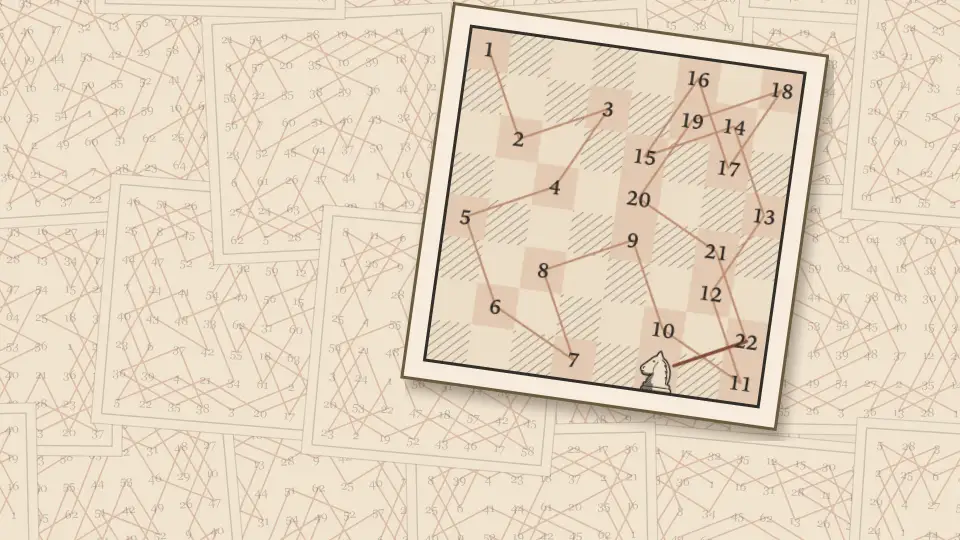
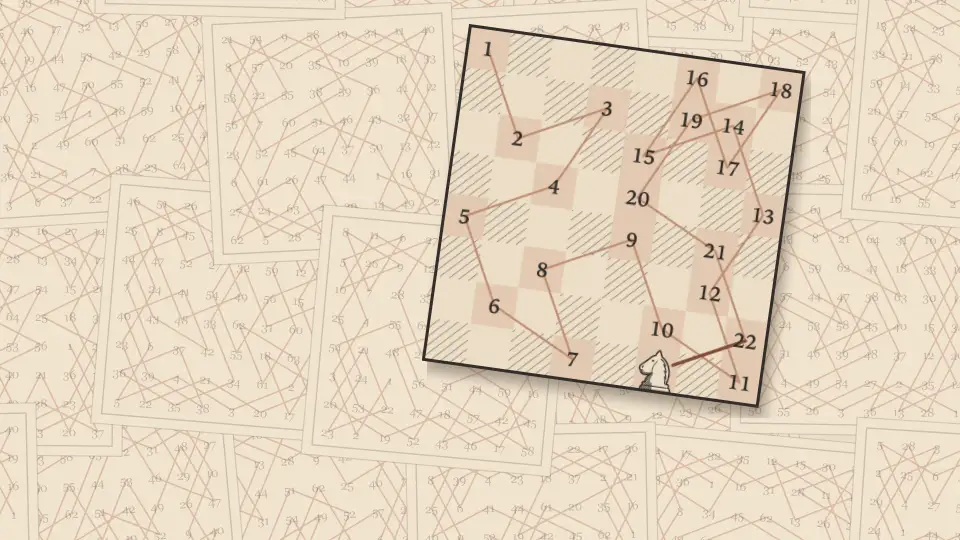
fix(knights-tour): 平台圖的棋盤拿掉白色紙邊，跟對局裡一樣只有墨框（11/3 Zach）
Claude-Session: https://claude.ai/code/session_014xmu4NJqhaE3mUfTMmWSRQ

diff --git a/CLAUDE.md b/CLAUDE.md
@@ -230,7 +230,7 @@ nudge { by, at }          最近一次「催一下」
     **2026-11-02 上線**（v26.11.9）：首頁、規則頁 `launchedGameMetadata`、進 sitemap；GA 送同一套事件（`game: 'blind-gomoku'`），難度多一級 `show`（照節目的 AI）。
     對局畫面（11/2 Zach）：兩方是**一條分段條**，手機與桌機同一條（計分牌、上下夾、分段條三種裡挑的），輪到的那半是青綠拼布；自己那半（連線、對電腦）一圈 2px 實線（實線框、布邊、小人三種裡挑的；畫面上不寫「你／AI」）。手機的狀態＋提示固定兩行高（提示一出一沒棋盤會跳），「點交叉點瞄準」改寫在「下子」鈕上（先選位置）。結算關掉後狀態那一塊換成「黑方勝 · 看結算」。
 
-  - 騎士巡遊（`feat/game-knights-tour`）：原件是歐拉 1759 的數學版畫、18 世紀紅粉筆素描；最外緣銅版雙線框（`.kt-frame`）；主視覺 `plate.webp`，首頁 Fig. 1 是歐拉的走法（`euler.ts`，有測試）。平台上的三張圖（大卡片 `hero-wide.webp`、手機方圖 `hero-square.webp`、小卡片 `card.webp`）照 Wall Go、虎棋的做法：**遊戲裡真的棋盤**（練習 8×8 照歐拉走了 23 步）帶紙邊斜放在右邊，底是一疊散開的手稿紙，每張是一條**不同的**騎士巡遊（11/3 Zach 從 A 紙底／B 學虎棋／C 棋盤放大裡選 B，「背後的棋盤不要重複，要有不同路線」）；`scripts/knights-tour/build-key-art.mjs` 產生（路線用 Warnsdorff＋固定種子，逐條驗過），先前的 plate.webp 版被嫌空白太多、騎士擺中間又怪。favicon 是紙上一枚銅版畫的騎士（對局裡同一隻，線條加粗）、外圈一道墨線（`public/icons/knights-tour.*`）。整頁的字（按鈕、說明、彈窗、分享圖）是 Noto Serif，各語系跟名字字標同一套（`scripts/game-fonts/knights-tour.mjs`，10/25），拉丁字與數字照舊 `.kt-serif`。
+  - 騎士巡遊（`feat/game-knights-tour`）：原件是歐拉 1759 的數學版畫、18 世紀紅粉筆素描；最外緣銅版雙線框（`.kt-frame`）；主視覺 `plate.webp`，首頁 Fig. 1 是歐拉的走法（`euler.ts`，有測試）。平台上的三張圖（大卡片 `hero-wide.webp`、手機方圖 `hero-square.webp`、小卡片 `card.webp`）照 Wall Go、虎棋的做法：**遊戲裡真的棋盤**（練習 8×8 照歐拉走了 23 步）斜放在右邊（只有對局裡那圈墨框，不加紙邊 —— 11/3 Zach 問「為什麼多一個白色外框」），底是一疊散開的手稿紙，每張是一條**不同的**騎士巡遊（11/3 Zach 從 A 紙底／B 學虎棋／C 棋盤放大裡選 B，「背後的棋盤不要重複，要有不同路線」）；`scripts/knights-tour/build-key-art.mjs` 產生（路線用 Warnsdorff＋固定種子，逐條驗過），先前的 plate.webp 版被嫌空白太多、騎士擺中間又怪。favicon 是紙上一枚銅版畫的騎士（對局裡同一隻，線條加粗）、外圈一道墨線（`public/icons/knights-tour.*`）。整頁的字（按鈕、說明、彈窗、分享圖）是 Noto Serif，各語系跟名字字標同一套（`scripts/game-fonts/knights-tour.mjs`，10/25），拉丁字與數字照舊 `.kt-serif`。
     聲音是歐拉那個年代的書房（`knights-tour/sounds.ts`，配方寫在檔頭）：騎士每跳一步彈一聲大鍵琴、音高看落在第幾列（D 大調，整條路就是一段旋律），點錯是鵝毛筆刮紙、悔棋是擦紅粉筆、重來是翻一頁紙，走完琶音、封閉巡遊再加一段終止式顫音；聲音開關在對局右上（手機）／標題旁（桌機）。
     騎士本身畫在 `knightArt.ts`（10/25 Zach：「騎士希望可以好看一點」；銅版畫、墨色圓章、紅粉筆的馬三種裡他選了銅版畫，另外兩種刪掉了；對局的 SVG、規則圖與分享圖的 Canvas 讀同一份圖層），面向前進的方向（往左跳就左右翻）。
     騎士沿「日」字真的跳過去（10/25 Zach：「也許可以有跳過去的動畫」）：蹲一下 → 沿先長邊後短邊的弧線拋起、空中拉長 → 落地壓扁再彈回，320ms、約 224ms 落地，腳下一團排線的影子跟著、紅粉筆跟著畫過去（`motion.ts`，只動 transform／opacity、關鍵影格事先算好）。
